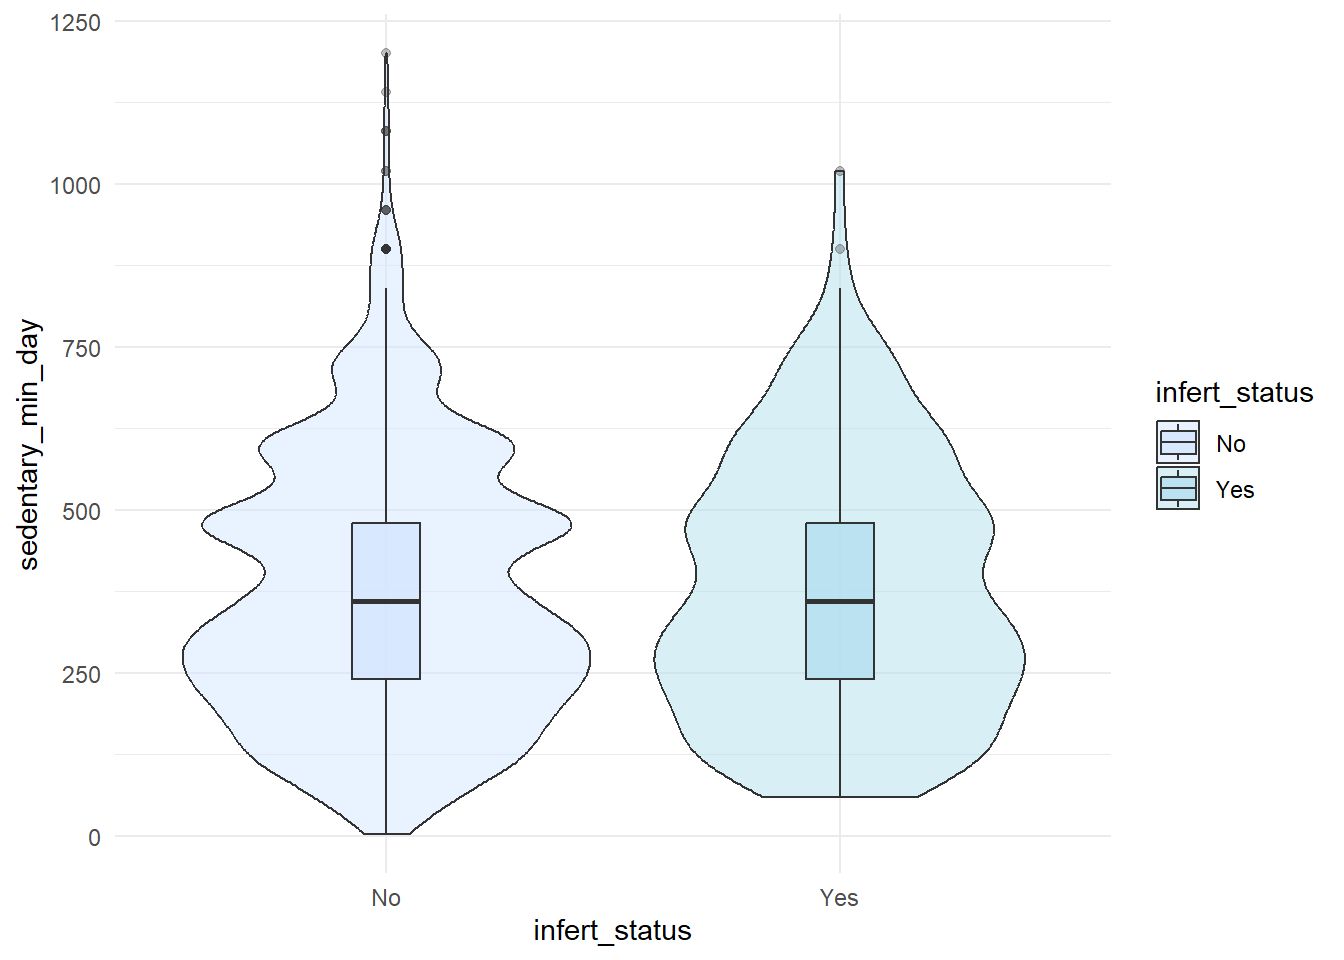
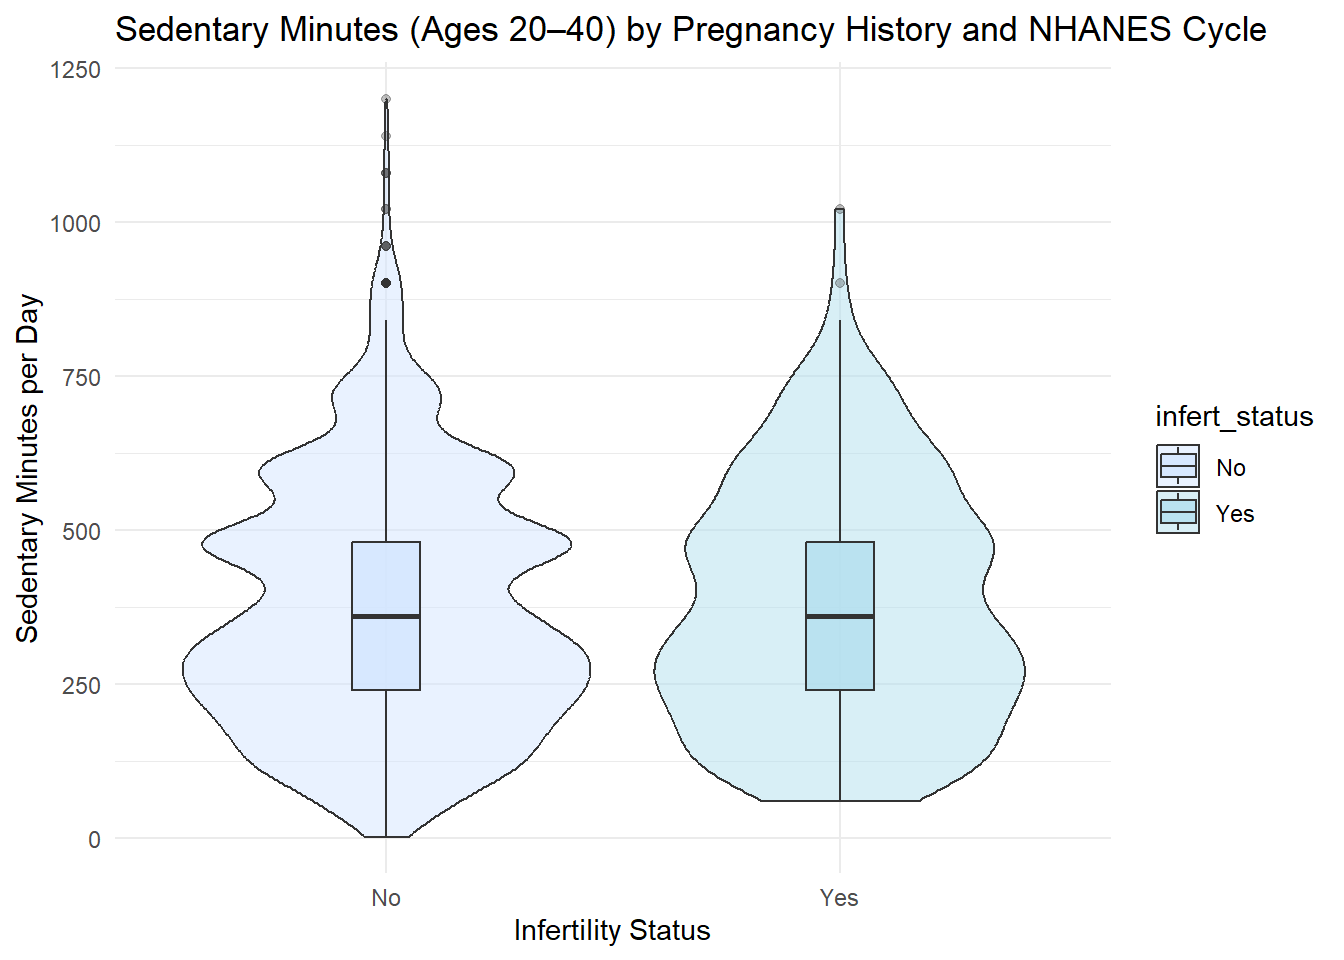
finish results writeup

diff --git a/docs/results.html b/docs/results.html
@@ -381,7 +381,7 @@ pre > code.sourceCode > span > a:first-child::before { text-decoration: underlin
 <span id="cb7-12"><a href="#cb7-12" aria-hidden="true" tabindex="-1"></a><span class="co">#   theme_minimal(base_size = 13)</span></span></code><button title="Copy to Clipboard" class="code-copy-button"><i class="bi"></i></button></pre></div>
 </details>
 </div>
-<p>Next I used a heatmap to get a different visual, this time comparing BMI with sedentary time reported in the NHANES data.</p>
+<p>Next I moved to look at trends in the reported number of sedentary minutes. I first used a heatmap to get a different type of visual. But also created the bar plot across age groups as well. The densist portion of the plot being around 8.5 hours is what I would have expected for adult women, since the majority probably spend 8-9 hours a day working. I would be curious to see how these numbers change if plotted using the original full age group data, since for the age groups I plotted the median stays relatively the same.</p>
 <div class="cell">
 <details class="code-fold">
 <summary>Code</summary>
@@ -528,6 +528,7 @@ pre > code.sourceCode > span > a:first-child::before { text-decoration: underlin
 </div>
 </div>
 </div>
+<p>Trying out a violin plot.</p>
 <div class="cell">
 <details class="code-fold">
 <summary>Code</summary>
@@ -535,7 +536,12 @@ pre > code.sourceCode > span > a:first-child::before { text-decoration: underlin
 <span id="cb13-2"><a href="#cb13-2" aria-hidden="true" tabindex="-1"></a>  <span class="fu">geom_violin</span>(<span class="at">alpha =</span> <span class="fl">0.5</span>) <span class="sc">+</span></span>
 <span id="cb13-3"><a href="#cb13-3" aria-hidden="true" tabindex="-1"></a>  <span class="fu">geom_boxplot</span>(<span class="at">width =</span> <span class="fl">0.15</span>, <span class="at">alpha =</span> <span class="fl">0.8</span>, <span class="at">outlier.alpha =</span> <span class="fl">0.3</span>) <span class="sc">+</span></span>
 <span id="cb13-4"><a href="#cb13-4" aria-hidden="true" tabindex="-1"></a>  <span class="fu">scale_fill_manual</span>(<span class="at">values =</span> <span class="fu">c</span>(<span class="st">"Yes"</span> <span class="ot">=</span> <span class="st">"lightblue2"</span>, <span class="st">"No"</span> <span class="ot">=</span> <span class="st">"#d3e5ff"</span>)) <span class="sc">+</span></span>
-<span id="cb13-5"><a href="#cb13-5" aria-hidden="true" tabindex="-1"></a>  <span class="fu">theme_minimal</span>()</span></code><button title="Copy to Clipboard" class="code-copy-button"><i class="bi"></i></button></pre></div>
+<span id="cb13-5"><a href="#cb13-5" aria-hidden="true" tabindex="-1"></a>  <span class="fu">labs</span>(</span>
+<span id="cb13-6"><a href="#cb13-6" aria-hidden="true" tabindex="-1"></a>    <span class="at">x =</span> <span class="st">"Infertility Status"</span>,</span>
+<span id="cb13-7"><a href="#cb13-7" aria-hidden="true" tabindex="-1"></a>    <span class="at">y =</span> <span class="st">"Sedentary Minutes per Day"</span>,</span>
+<span id="cb13-8"><a href="#cb13-8" aria-hidden="true" tabindex="-1"></a>    <span class="at">title =</span> <span class="st">"Sedentary Minutes (Ages 20–40) by Pregnancy History and NHANES Cycle"</span></span>
+<span id="cb13-9"><a href="#cb13-9" aria-hidden="true" tabindex="-1"></a>  ) <span class="sc">+</span></span>
+<span id="cb13-10"><a href="#cb13-10" aria-hidden="true" tabindex="-1"></a>  <span class="fu">theme_minimal</span>()</span></code><button title="Copy to Clipboard" class="code-copy-button"><i class="bi"></i></button></pre></div>
 </details>
 <div class="cell-output-display">
 <div>
@@ -576,7 +582,7 @@ pre > code.sourceCode > span > a:first-child::before { text-decoration: underlin
 </div>
 </div>
 </div>
-<p>Officially moving to work with the BRFSS dataset. My main goal with this was to supplement my analysis of physical activity trends for my original research question.</p>
+<p>Moving to work with the BRFSS dataset, my main goal with this was to supplement my analysis of physical activity trends for my original research question. First, I plotted strength training to have a comparison against the previous sedentary time. During the same time that sedentary time has decreased, reported strength training activity has increased.</p>
 <div class="cell">
 <details class="code-fold">
 <summary>Code</summary>
@@ -605,6 +611,7 @@ pre > code.sourceCode > span > a:first-child::before { text-decoration: underlin
 </div>
 </div>
 </div>
+<p>This dataset targeted two forms of exercise: aerobic and strength, and also had a broader questions regarding meeting professional guidelines on exercise. I was thinking that maybe aerobic would decline when strength training began to increase, but all three lines trend in parallel.</p>
 <div class="cell">
 <details class="code-fold">
 <summary>Code</summary>
@@ -638,7 +645,7 @@ pre > code.sourceCode > span > a:first-child::before { text-decoration: underlin
 </div>
 </div>
 </div>
-<p>Cleveland dot plot</p>
+<p>I thought a cleveland dot plot would be a perfect candidate for showcasing the difference between aerobic and strength data. While I did not plot PR on the next graph, here it stands out as an outlier for lower activity levels. We also see Colorado and DC at the higher end. One that surprised me was California, which I thought would be the highest since it is known for great weather and a very active/outdoorsy population.</p>
 <div class="cell">
 <details class="code-fold">
 <summary>Code</summary>
@@ -740,6 +747,7 @@ pre > code.sourceCode > span > a:first-child::before { text-decoration: underlin
 </div>
 </div>
 </div>
+<p>I was surprised to see two states missing here but double checked the data file as well.</p>
 <div class="cell">
 <details class="code-fold">
 <summary>Code</summary>
